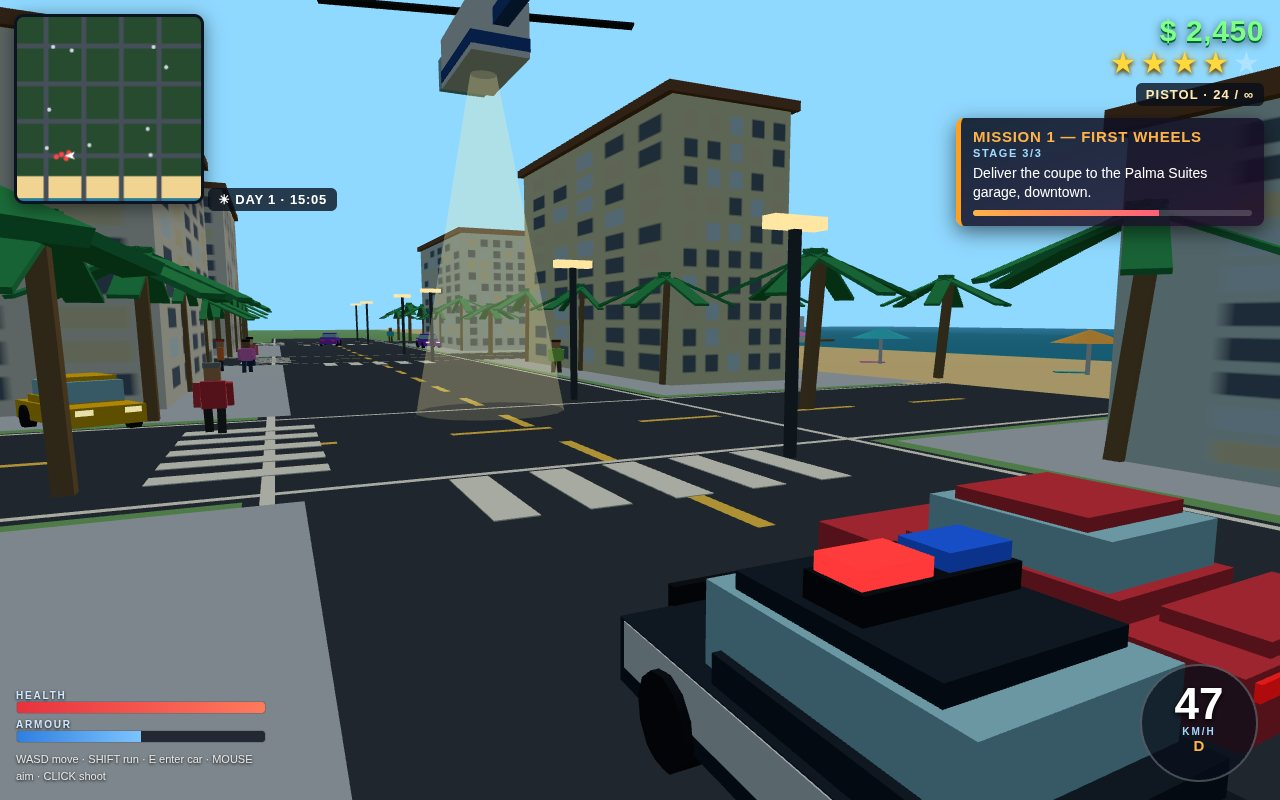
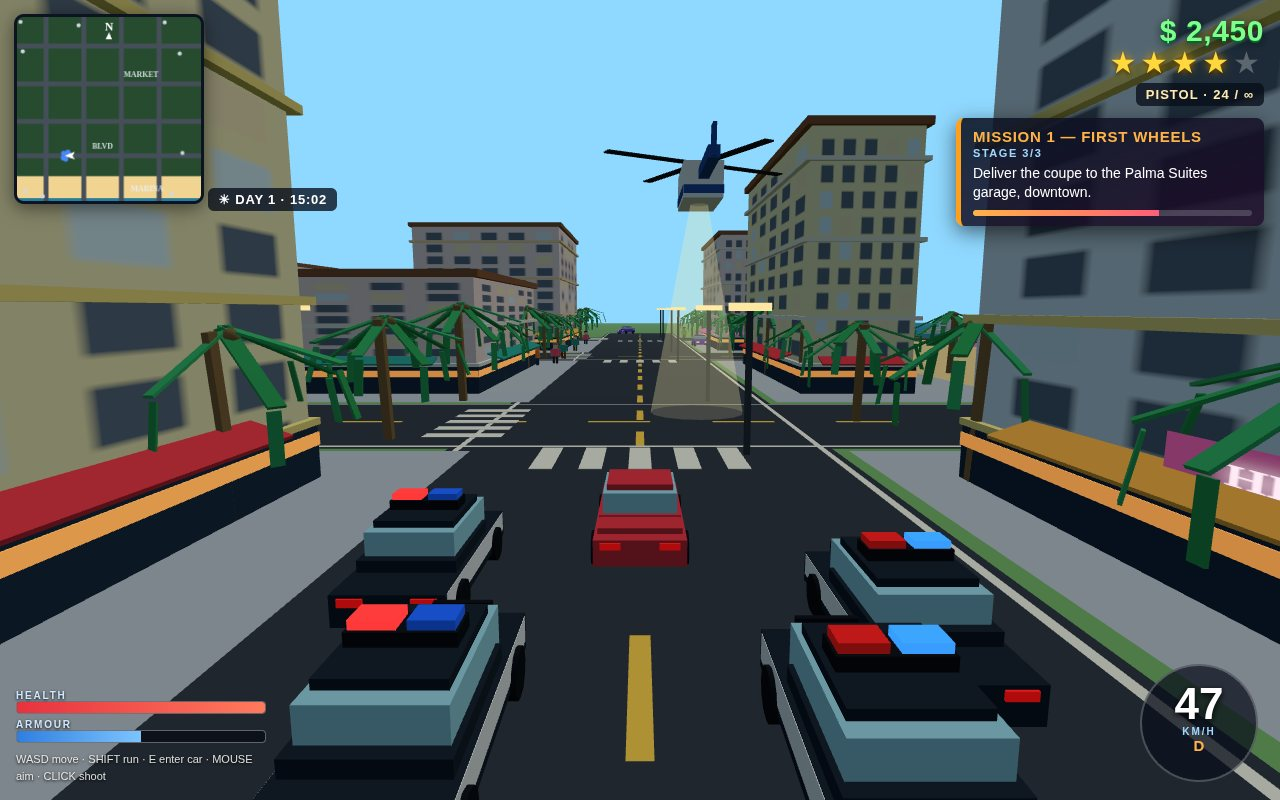
Vice Heat v5: polish round — chase-cam recomposition, storefront/balcony facades, denser night market, drooped palms, labelled minimap

diff --git a/game/src/world.js b/game/src/world.js
@@ -116,6 +116,9 @@ export function buildWorld(scene) {
   const palette = [0xf6e3c5, 0xf9c6c0, 0xbfe3dd, 0xfde68a, 0xd6c8f0, 0xffd9a0, 0xcfe8ff, 0xf3f0e6];
   const signs = [['AZUL HOTEL', '#2b1055', '#ff7ad9'], ['CAFÉ SOL', '#3d1c02', '#ffb347'], ['MARINA INN', '#02283d', '#7ce7ff'],
     ['CLUB NEÓN', '#26043d', '#c77dff'], ['PALMA SUITES', '#33200a', '#ffe9b0'], ['BANCO AZUL', '#0a2436', '#9fd8ff']];
+  const shopSigns = [['FRUTAS', '#123524', '#9be15d'], ['TACOS SOL', '#3d1c02', '#ffb347'], ['BAR AZUL', '#0a2436', '#7ce7ff'],
+    ['DISCOS', '#26043d', '#ff7ad9'], ['HELADOS', '#3d0a24', '#ffd1e8'], ['FARMACIA', '#0d2b1a', '#8affc1'],
+    ['LIBROS', '#2b1a05', '#ffe9b0'], ['SURF SHOP', '#02283d', '#7ce7ff']];
   let signIdx = 0;
   for (let bx = 0; bx < 3; bx++) for (let bz = 0; bz < 4; bz++) {
     const x0 = ROAD_X[bx] + 9, x1 = (ROAD_X[bx + 1] ?? 90) - 9;
@@ -127,7 +130,7 @@ export function buildWorld(scene) {
     for (let i = 0; i < cols; i++) for (let j = 0; j < rows; j++) {
       const w = bw / cols - 3, d = bd / rows - 3;
       const cx = x0 + (i + .5) * bw / cols, cz = z0 + (j + .5) * bd / rows;
-      const h = downtown ? 16 + rng() * 22 : 7 + rng() * 11;
+      const h = downtown ? 15 + rng() * 25 : 6.5 + rng() * 13.5;
       const base = '#' + palette[Math.floor(rng() * palette.length)].toString(16).padStart(6, '0');
       const tex = windowTexture(base, downtown ? .55 : .35, rng);
       const mat = new THREE.MeshLambertMaterial({ map: tex });
@@ -136,6 +139,32 @@ export function buildWorld(scene) {
       grp.add(box(w + 0.7, 0.5, d + 0.7, M(0x8a5a3b), cx, h + 0.25, cz)); // roof lip
       if (rng() < .5) grp.add(box(2.4, 1.1, 2.4, M(0x9aa4ae), cx + w / 4, h + 0.8, cz)); // roof unit
       colliders.push({ x: cx, z: cz, hw: w / 2 + 0.4, hd: d / 2 + 0.4 });
+      // ---- street-level detail: glassy storefront band, warm glow strip,
+      // fascia, striped awnings on all four faces, balcony/cornice strips ----
+      const trim = M(palette[Math.floor(rng() * palette.length)]);
+      const awnM = M([0xe63946, 0x2a9d8f, 0xffb347, 0x4361ee, 0xff7ad9][Math.floor(rng() * 5)]);
+      grp.add(box(w + 0.35, 1.7, d + 0.35, M(0x22344c), cx, 0.9, cz)); // storefront glass
+      grp.add(box(w + 0.42, 0.42, d + 0.42, M(0xffca7a, 0xff9a3c, 0.5), cx, 1.32, cz)); // glow strip
+      grp.add(box(w + 0.5, 0.22, d + 0.5, trim, cx, 1.88, cz)); // fascia
+      for (const s of [-1, 1]) {
+        const a1 = box(w * 0.74, 0.1, 1.2, awnM, cx, 2.2, cz + s * (d / 2 + 0.55)); a1.rotation.x = s * 0.34; grp.add(a1);
+        const a2 = box(1.2, 0.1, d * 0.74, awnM, cx + s * (w / 2 + 0.55), 2.2, cz); a2.rotation.z = -s * 0.34; grp.add(a2);
+      }
+      for (let f = 1; f <= 3; f++) { // balcony strips: perimeter frame only, never a solid slab
+        const by = h * f / 3.4;
+        if (by > 3.2 && by < h - 1.4) {
+          grp.add(box(w + 0.6, 0.26, 0.6, trim, cx, by, cz - d / 2 - 0.05));
+          grp.add(box(w + 0.6, 0.26, 0.6, trim, cx, by, cz + d / 2 + 0.05));
+          grp.add(box(0.6, 0.26, d + 0.6, trim, cx - w / 2 - 0.05, by, cz));
+          grp.add(box(0.6, 0.26, d + 0.6, trim, cx + w / 2 + 0.05, by, cz));
+        }
+      }
+      if (signIdx < shopSigns.length && rng() < .8) { // small shop sign over the storefront
+        const [txt, bg, fg] = shopSigns[signIdx++];
+        const s = new THREE.Mesh(new THREE.PlaneGeometry(Math.min(w * .62, 7.5), 1.05),
+          new THREE.MeshBasicMaterial({ map: signTexture(txt, bg, fg) }));
+        s.position.set(cx, 2.55, cz - d / 2 - 0.24); s.rotation.y = Math.PI; grp.add(s);
+      }
       if (h > 13 && signIdx < signs.length) { // neon sign facing the nearest road
         const [txt, bg, fg] = signs[signIdx++];
         const s = new THREE.Mesh(new THREE.PlaneGeometry(Math.min(w * .9, 13), 3),
@@ -147,13 +176,24 @@ export function buildWorld(scene) {
 
   // ---------- palms + street lamps ----------
   const trunkM = M(0x8a6a42), leafM = M(0x2f9e57);
+  const leafGeo = new THREE.BoxGeometry(3.0, 0.07, 0.4); leafGeo.translate(1.45, 0, 0); // pivot at frond base
+  const tipGeo = new THREE.BoxGeometry(1.25, 0.06, 0.3); tipGeo.translate(0.6, 0, 0);
+  const leafM2 = M(0x37b268);
   function palm(x, z, s = 1) {
     const g = new THREE.Group();
     const trunk = box(0.32, 4.6, 0.32, trunkM, 0, 2.3, 0); trunk.rotation.z = 0.09; g.add(trunk);
-    for (let i = 0; i < 6; i++) {
-      const leaf = box(3.4, 0.1, 0.65, leafM, 0, 4.75, 0);
-      leaf.rotation.y = i * Math.PI / 3; leaf.rotation.z = -0.42;
-      leaf.translateX(1.5); g.add(leaf);
+    const crown = new THREE.Group(); crown.position.set(0.42, 4.68, 0); g.add(crown);
+    for (let i = 0; i < 8; i++) { // eight drooped fronds, each with a downturned tip
+      const yaw = new THREE.Group(); yaw.rotation.y = i * Math.PI / 4 + (i % 2) * 0.16;
+      const frond = new THREE.Group(); frond.rotation.z = -0.3 - (i % 3) * 0.16; // gentle arc
+      const leaf = new THREE.Mesh(leafGeo, i % 2 ? leafM : leafM2); frond.add(leaf);
+      const tip = new THREE.Mesh(tipGeo, i % 2 ? leafM2 : leafM);
+      tip.position.set(2.88, -0.2, 0); tip.rotation.z = -0.95; frond.add(tip); // tip droops hard
+      yaw.add(frond); crown.add(yaw);
+    }
+    for (let i = 0; i < 3; i++) { // coconuts
+      const nut = new THREE.Mesh(new THREE.SphereGeometry(0.21, 7, 6), trunkM);
+      nut.position.set(Math.cos(i * 2.1) * 0.3, -0.22, Math.sin(i * 2.1) * 0.3); crown.add(nut);
     }
     g.position.set(x, 0, z); g.scale.setScalar(s); grp.add(g);
     colliders.push({ x, z, hw: 0.5, hd: 0.5 });
@@ -167,23 +207,56 @@ export function buildWorld(scene) {
     const head = box(0.5, 0.3, 1.5, headM, x + s * 7, 5.5, z); grp.add(head); animated.lampHeads.push(head);
   }
 
-  // ---------- market street: stalls along the z=-22 road, east blocks ----------
+  // ---------- night market: two stall rows facing each other over the z=-22 road ----------
   const stallCols = [0xff5e78, 0xffb347, 0x37c8d9, 0x9be15d, 0xff7ad9, 0xffe066];
   const market = new THREE.Group(); grp.add(market);
-  for (let i = 0; i < 7; i++) {
-    const x = 31 + i * 6.4, z = -14.6, col = stallCols[i % stallCols.length];
+  function stall(x, z, i) {
+    const col = stallCols[i % stallCols.length];
     market.add(box(3.6, 1.05, 2, M(0x9a6a44), x, 0.55, z));
     market.add(box(3.9, 0.14, 2.4, M(col), x, 2.25, z));
     for (const sx of [-1.7, 1.7]) market.add(box(0.14, 2.25, 0.14, M(0x6b4a2f), x + sx, 1.1, z));
-    for (let k = 0; k < 5; k++) market.add(box(0.5, 0.35, 0.5, M(stallCols[(i + k) % 6]), x - 1.3 + k * 0.65, 1.25, z + rng() * 0.5));
+    for (let k = 0; k < 6; k++) market.add(box(0.5, 0.35, 0.5, M(stallCols[(i + k) % 6]), x - 1.55 + k * 0.62, 1.25, z + rng() * 0.5));
+    market.add(box(0.55, 0.7, 0.55, M(0x7a4a26), x + 2.2, 0.35, z + 0.4)); // crate beside the stall
     colliders.push({ x, z, hw: 2, hd: 1.3 });
   }
-  // string lights over the market
-  const bulbM = new THREE.MeshBasicMaterial({ color: 0xffca7a });
-  for (let i = 0; i < 26; i++) {
-    const b = new THREE.Mesh(new THREE.SphereGeometry(0.14, 6, 5), bulbM);
-    b.position.set(30 + i * 1.6, 3.6 - Math.sin(i / 25 * Math.PI) * 0.5, -14.6); market.add(b);
+  for (let i = 0; i < 8; i++) stall(27 + i * 4.6, -14.6, i);          // north row
+  for (let i = 0; i < 7; i++) stall(29.5 + i * 4.8, -29.6, i + 3);    // south row
+  for (let i = 0; i < 6; i++) { // barrels + crate clusters in the gaps
+    const bx = 30 + i * 6.8, bz = i % 2 ? -17.4 : -26.8;
+    const barrel = new THREE.Mesh(new THREE.CylinderGeometry(0.42, 0.42, 0.95, 9), M(stallCols[i % 6]));
+    barrel.position.set(bx, 0.48, bz); market.add(barrel);
+    market.add(box(0.8, 0.5, 0.8, M(0x9a6a44), bx + 0.8, 0.25, bz + 0.3, rng()));
   }
+  // warm light pools on the ground + real point lights so the market glows at night
+  const poolM = new THREE.MeshBasicMaterial({ color: 0xffb45e, transparent: true, opacity: 0.16, depthWrite: false });
+  for (const [px, pz] of [[36, -18], [48, -22], [60, -26], [42, -27], [56, -16]]) {
+    const pool = new THREE.Mesh(new THREE.CircleGeometry(3.4, 18), poolM);
+    pool.rotation.x = -Math.PI / 2; pool.position.set(px, 0.06, pz); market.add(pool);
+  }
+  for (const [px, pz] of [[40, -16], [52, -24], [58, -29]]) { // three real lights, kept few for perf
+    const pl = new THREE.PointLight(0xffb45e, 0.85, 19); pl.position.set(px, 3.3, pz); market.add(pl);
+  }
+  // string lights ON visible sagging wires: two runs along the rows, three across the road
+  const bulbM = new THREE.MeshBasicMaterial({ color: 0xffca7a });
+  const wireM = new THREE.LineBasicMaterial({ color: 0x14100c });
+  function stringWire(x0, z0, x1, z1, y) {
+    const pts = [];
+    for (let i = 0; i <= 20; i++) {
+      const f = i / 20;
+      pts.push(new THREE.Vector3(x0 + (x1 - x0) * f, y - Math.sin(f * Math.PI) * 0.55, z0 + (z1 - z0) * f));
+    }
+    market.add(new THREE.Line(new THREE.BufferGeometry().setFromPoints(pts), wireM));
+    for (let i = 1; i < 20; i += 2) {
+      const p = pts[i];
+      const b = new THREE.Mesh(new THREE.SphereGeometry(0.15, 6, 5), bulbM);
+      b.position.set(p.x, p.y - 0.16, p.z); market.add(b);
+    }
+  }
+  stringWire(25.5, -14.6, 61.5, -14.6, 3.7);
+  stringWire(28, -29.6, 60, -29.6, 3.7);
+  stringWire(36, -14.6, 36, -29.6, 3.9);
+  stringWire(48, -14.6, 48, -29.6, 3.9);
+  stringWire(60, -14.6, 60, -29.6, 3.9);
 
   // ---------- marina: docks + boats on the south shore ----------
   const dockM = M(0x8a6a44), hullCols = [0xffffff, 0xff5e78, 0x37c8d9, 0xffb347, 0x7ce7ff];

diff --git a/game/src/main.js b/game/src/main.js
@@ -15,7 +15,7 @@ const canvas = document.getElementById('gl');
 const renderer = new THREE.WebGLRenderer({ canvas, antialias: true });
 renderer.setPixelRatio(Math.min(devicePixelRatio, 1.6));
 const scene = new THREE.Scene();
-const camera = new THREE.PerspectiveCamera(58, 16 / 10, 0.1, 600);
+const camera = new THREE.PerspectiveCamera(64, 16 / 10, 0.1, 600);
 const lights = { sun: new THREE.DirectionalLight(0xffffff, 1), hemi: new THREE.HemisphereLight(0xbfe3ff, 0x51683f, 0.7) };
 lights.sun.position.set(60, 90, 40); scene.add(lights.sun, lights.hemi, new THREE.AmbientLight(0xffffff, 0.12));
 
@@ -25,7 +25,7 @@ const audio = new GameAudio();
 const player = new Player(scene);
 const traffic = new Traffic(scene, 9);
 const parked = parkedCars(scene);
-const crowd = new Crowd(scene, 16);
+const crowd = new Crowd(scene, 26);
 const police = new Police(scene);
 const npcs = {};
 for (const key of ['marisol', 'tito', 'sana']) {
@@ -170,10 +170,10 @@ function stageScene(name) {
   }
   if (name === 'mission') {
     setPreset('night');
-    player.x = 40; player.z = -7.5; player.ry = Math.PI;
-    state.camYaw = 0; state.camPitch = 0.3;
+    player.x = 43; player.z = -22; player.ry = Math.PI;
+    state.camYaw = 0; state.camPitch = 0.34;
     hud.showMission(2, 'HOT CARGO', 2, 3, 'Collect the crate from stall seven.');
-    worldFx.setBeacon(44, -14.6);
+    worldFx.setBeacon(50, -29.6);
     hud.showDialogue([['tito', 'Psst. Night market, stall seven — that crate is NOT fruit, entiendes? Grab it and do not look inside.']], () => {});
     state.cash = 3050; state.wanted = 1; police.setWanted(1); state.dayMin = 21 * 60 + 40;
   }
@@ -188,6 +188,15 @@ function stageScene(name) {
     hud.showMission(3, 'COOL DOWN', 2, 4, 'Run the beach road checkpoint on the boulevard.');
     worldFx.setBeacon(66, 62); state.cash = 4300; state.dayMin = 11 * 60 + 15;
     state.pin = { car, heli: false, x: car.x, z: car.z, ry: car.ry };
+  }
+  // snap the camera straight to its composed position (no lerp travel in shots)
+  if ((name === 'street' || name === 'vista') && player.inCar) {
+    const c = player.inCar;
+    camera.position.set(c.x + Math.sin(c.ry) * 14.5, 5.4, c.z + Math.cos(c.ry) * 14.5);
+  }
+  if (name === 'mission') {
+    const d = 6.4 * Math.cos(state.camPitch * 0.6);
+    camera.position.set(player.x + Math.sin(state.camYaw) * d, 1.7 + state.camPitch * 3.4, player.z + Math.cos(state.camYaw) * d);
   }
 }
 if (STAGE) stageScene(STAGE);
@@ -204,10 +213,12 @@ function updateCamera(dt) {
   const driving = !!player.inCar;
   const px = player.x, pz = player.z;
   if (driving) {
-    const c = player.inCar, back = 9.8, h = 3.7;
+    // chase cam pulled back and raised (v5): the player's car stays the clear
+    // subject, pursuers read behind/beside it, the helicopter fits the frame.
+    const c = player.inCar, back = 14.5, h = 5.4;
     const bx = c.x + Math.sin(c.ry) * back, bz = c.z + Math.cos(c.ry) * back;
     camera.position.lerp(camTarget.set(bx, h, bz), 1 - Math.pow(0.0001, dt));
-    camera.lookAt(c.x - Math.sin(c.ry) * 9, 1.6, c.z - Math.cos(c.ry) * 9);
+    camera.lookAt(c.x - Math.sin(c.ry) * 11, 1.8, c.z - Math.cos(c.ry) * 11);
     state.camYaw = c.ry + Math.PI;
   } else {
     const dist = 6.4, h = 1.7 + state.camPitch * 3.4;
@@ -255,7 +266,9 @@ function frame(now) {
         player.x = c.x; player.z = c.z;
         c.speed = 13; c.mesh.position.set(c.x, 0, c.z); c.mesh.rotation.y = c.ry;
         state.speedKmh = 47;
-        const FORM = [[1.5, -3.4], [4.5, 3.4], [10, -1.5], [16, 1.5], [22, 0]];
+        // v5 formation: every pursuer sits close behind the player's car and
+        // offset to a flank, so none of them looms between camera and subject.
+        const FORM = [[2.5, -4.1], [5, 4.1], [7.5, -2.7], [8, 2.7], [11, 0]];
         police.cars.forEach((p, i) => {
           const [back, side] = FORM[i % FORM.length];
           p.x = c.x - fx * back - fz * side; p.z = c.z - fz * back + fx * side; p.ry = c.ry; p.speed = 13;
@@ -263,7 +276,7 @@ function frame(now) {
         });
         if (state.pin.heli) {
           police.heli.visible = true;
-          police.heli.position.set(c.x + fx * 21, 12.5, c.z + fz * 21);
+          police.heli.position.set(c.x + fx * 19 - fz * 3, 11.5, c.z + fz * 19 + fx * 3);
           police.heli.rotation.y = c.ry;
           police.heli.userData.rotor.rotation.y += dt * 28;
         }

diff --git a/game/src/hud.js b/game/src/hud.js
@@ -79,6 +79,15 @@ export class Hud {
     for (const x of ROAD_X) { g.moveTo(X(x), 0); g.lineTo(X(x), S); }
     for (const z of [...ROAD_Z, BOULEVARD_Z]) { g.moveTo(0, Z(z)); g.lineTo(S, Z(z)); }
     g.stroke();
+    // road labels + north indicator
+    g.fillStyle = 'rgba(230,240,248,0.85)'; g.font = '700 8px Verdana'; g.textAlign = 'center';
+    g.fillText('BLVD', X(0), Z(BOULEVARD_Z) - 7);
+    g.fillText('MARKET', X(45), Z(-22) - 7);
+    g.fillText('MARINA', X(52), Z(100) + 3);
+    g.font = '900 12px Verdana'; g.fillStyle = '#ffffff';
+    g.fillText('N', S / 2, 14);
+    g.beginPath(); g.moveTo(S / 2, 16); g.lineTo(S / 2 - 3.4, 23); g.lineTo(S / 2 + 3.4, 23); g.closePath(); g.fill();
+    g.textAlign = 'left';
     const dot = (x, z, c, r) => { g.fillStyle = c; g.beginPath(); g.arc(X(x), Z(z), r, 0, 7); g.fill(); };
     for (const c of cars) dot(c.x, c.z, '#cfd8e3', 2);
     if (wanted > 0) for (const c of police) dot(c.x, c.z, (performance.now() % 600 < 300) ? '#ff4444' : '#4488ff', 2.6);

diff --git a/game/src/player.js b/game/src/player.js
@@ -86,6 +86,8 @@ export class Crowd {
       { axis: 'x', from: -80, to: 80, fixed: 53.5 }, { axis: 'x', from: -80, to: 80, fixed: 70.5 },
       { axis: 'z', from: -80, to: 52, fixed: -14.5 }, { axis: 'z', from: -80, to: 52, fixed: 29.5 },
       { axis: 'x', from: 26, to: 76, fixed: -14.6 }, { axis: 'x', from: -80, to: 80, fixed: -29.5 },
+      { axis: 'x', from: 27, to: 62, fixed: -12.6 }, { axis: 'x', from: 29, to: 60, fixed: -31.4 },
+      { axis: 'x', from: 27, to: 62, fixed: -19.5 }, { axis: 'x', from: -80, to: 80, fixed: 53.5 },
     ];
     for (let i = 0; i < count; i++) {
       const mesh = makePerson({
